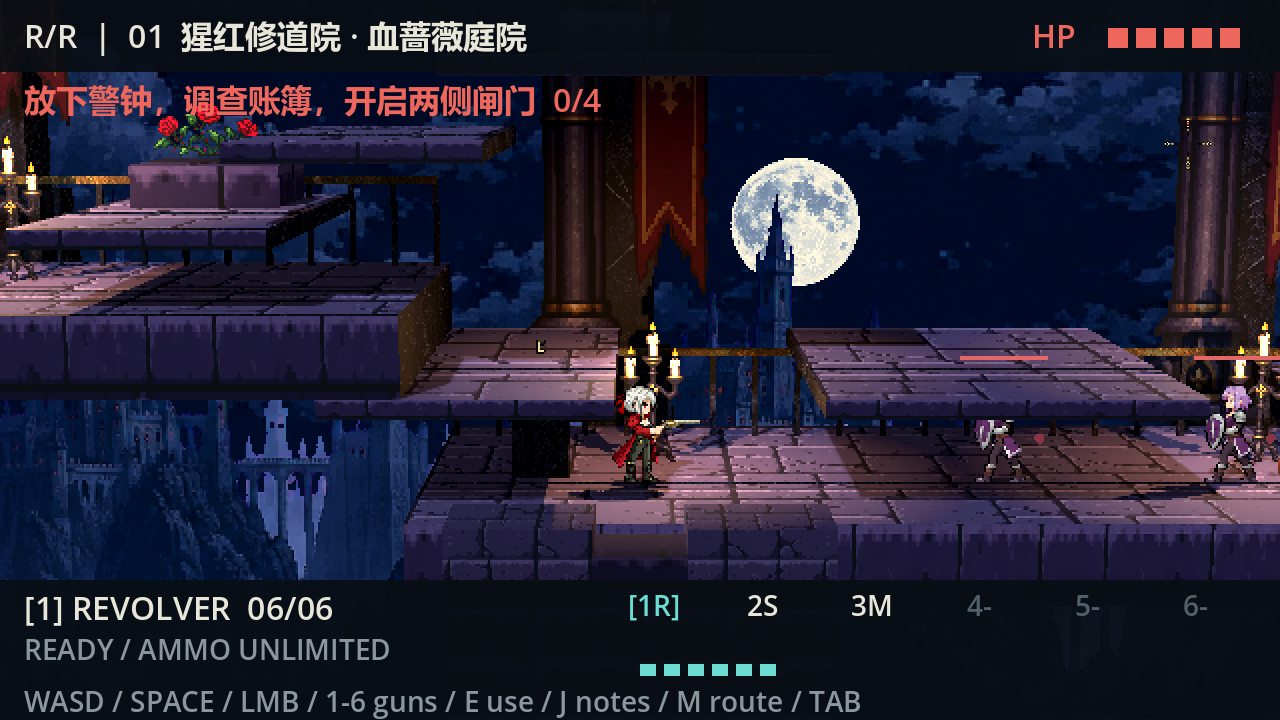
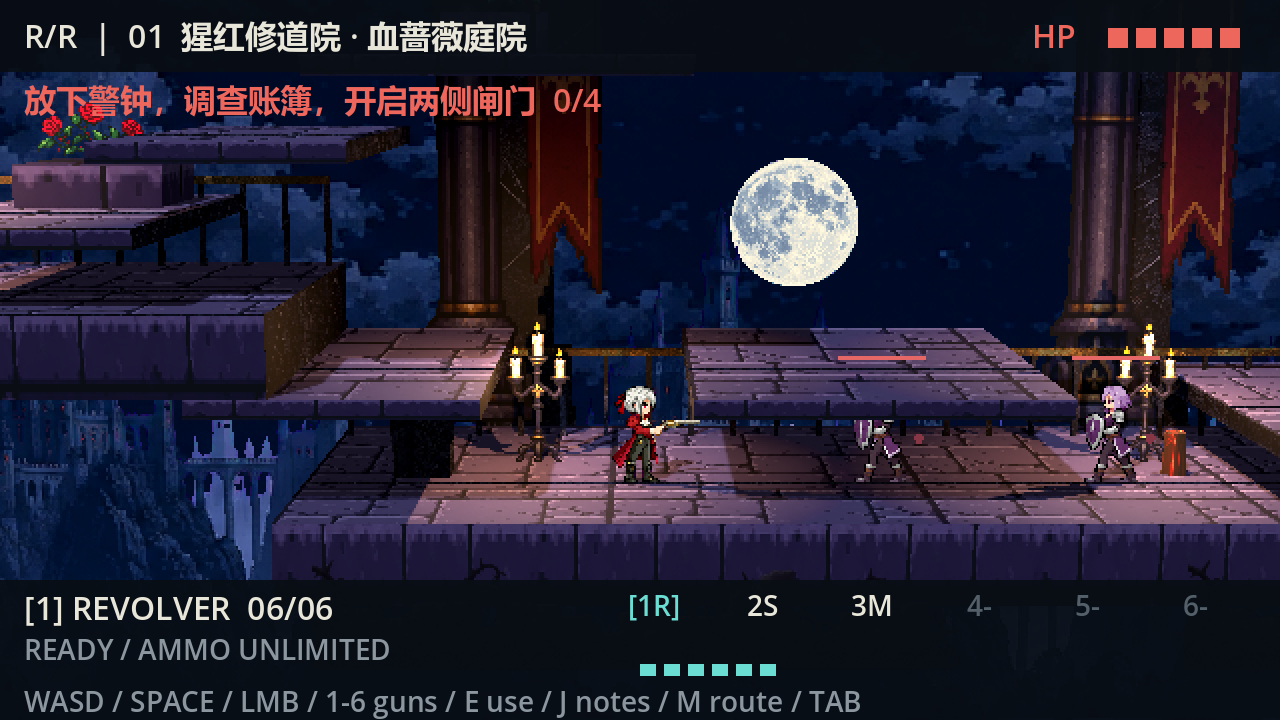
Replace near walls with generated larger 2D silhouettes

diff --git a/docs/FOREGROUND_DEPTH.md b/docs/FOREGROUND_DEPTH.md
@@ -1,29 +1,13 @@
-# 下方分段城墙与建筑层级
+# 二维近景剪影
 
-2026-09-11。用户否决两侧模糊柱旗，改为下方分段城墙。本文件覆盖此前的近景柔焦规范。
+2026-09-11 最新用户示意图要求：偏二维、细节弱化、略带糊化的近景。此前清晰三维石墙方案由本修订替代，旧两侧模糊柱旗同样不恢复。
 
-## 当前呈现
+使用新生成的 foreground_silhouette_v1.png：暗紫黑城墙、荆棘与一处短石饰，透明背景，柔化来自源图与仅作用于前景的线性采样。Sprite3D 不受三维光照、不投影、不 billboard、不使用全屏模糊或屏幕边缘渐隐。平台、角色与原生 UI 不受影响。
 
-五段场景各有两组近景石墙，共十组，宽 120–180 逻辑像素。墙体为真实 3D 几何，有立面、压顶、降低的缺口和两处短墙端柱。墙基向下延伸出取景区域，视作近处外墙的局部，不出现悬空底边。墙段位置保持世界坐标；近镜头、上层路线和跳跃时可以自然离开视野，不强行保持屏幕边框。
+near_foreground.tscn 保留十个分段，每段一个二维贴片。根据用户追加的“占比更大、清楚可见”要求，宽度从 120–180 增至 220–280 逻辑像素，最高轮廓抬高 6 像素；外廊第二段向右错开，保留段间开口。两处 end_pier 使用完整绘图，其他八处取右侧无尖饰的荆棘墙段；按不透明包围盒将最高轮廓对齐节点原点，宽高统一缩放，不拉长。直接使用源图区域，源文件不被改画。场景仍可在 Godot 中调整 position、width、end_pier。重置整体重建，无额外碰撞。
 
-移除旧版 14 张拉长柱旗及 foreground_soft 模糊材质；不做模糊、屏幕边缘渐隐或透明黑幕。普通不透明石材使用最近邻采样，接受环境光，颜色低于可玩平台。前景不投下会干扰战斗的阴影，也不增加碰撞。
+前景集中在扣除 HUD 后画面下方，近镜头与高处视角可自然退出画面，横移保持世界空间视差。保留全地图平台高度、六种枪械远近镜头距离、三档偏移及空中高度的投影/脚底间距测试。此前书架、柱子和玫瑰接合修复未修改。
 
-## 素材与编辑
+实际 RTX 3070 渲染检查输出 60 张截图，代表图为 screenshots/foreground_depth.png、screenshots/foreground_garden.png。这属于固定输入渲染检查，不等同于人工键鼠试玩。生成来源及提示词见 assets/environments/crimson/FOREGROUND_SOURCE.md。
 
-检查现有 atlas_v1.png 后，素石条 Rect2i(668,42,526,62) 足够用于墙面，石砖区域 Rect2i(48,34,548,526) 用于压顶。保留原 imagegen 来源，未生成新图。通过三向投影按世界尺度采样，不把整幅哥特拱门贴满墙面；缺口与厚度由几何表达。
-
-在 Godot 打开 scenes/rooms/near_foreground.tscn 可独立编辑十组墙的位置。每组导出 width 和 end_pier，工具脚本实时重建。节点原点为最高压顶面；两个端柱位置不再额外超过这个上限。场景实例归入主地图 scenery，重置时一起销毁重建，材质接入 F6 白模切换。
-
-景深中心 z=0.95，最靠后实体面 z=0.72，位于可玩平台前面 z=0.675 之外。普通墙顶 y=-3.38，低洼外廊与花园为 -3.90。后两组分别布置于低处实地前沿，并在墙间保留开口，不横跨整段屏幕。
-
-## 验证与限制
-
-高度按扣除 HUD 后的可见区域计算：640×360 世界画面中，HUD 上界约 y=36、下界 y=290。测试要求墙顶不超过这段可见区域的下方 20%。每隔 32 逻辑像素采样实际平台高度，包括下层路线与机关平台，覆盖 0/80/160 像素空中高度、三把枪的六个远近距离和三档镜头偏移。最高墙顶落在世界画面 y=0.707–0.725，即可见游戏区域下方约 11%–14%；所有采样中的角色脚底与墙顶至少相隔 4 渲染像素。近镜头下不保证低墙始终可见。
-
-tests/test_foreground.gd 为 23 项通过，覆盖投影高度、角色脚底、真实视差和短柱数量。完整 tools/run_checks.ps1 通过，环境 174 项、装饰接合 193 项通过；最终墙段横向调整后重跑前景测试通过。
-
-tests/capture_foreground.gd 为十组墙的六个镜头距离输出 60 张实际 GPU 截图；代表图见 screenshots/foreground_depth.png 与 screenshots/foreground_garden.png。tests/capture_foreground_motion.gd 配合 --fixed-fps 60 --write-movie artifacts/foreground_traversal.avi 生成三秒横移跳跃片段，并输出四张过程截图。这是固定输入呈现检查，不是人工键鼠试玩；既有平台遮挡表现不由本次前景改动修复。
-
-此前书架背板、层板、书本整体位于平台后面，最前层板为 z=-1.26，石托接合永久平台背面；柱子和玫瑰修复保持。当前周期账户剩余 60%，本次按约定验证、导出、记录并同步主分支后收尾。
-
-最终唯一输出 builds/windows/RecoilRequiem.exe 已重新导出，在 RTX 3070 上运行 120 帧，退出码 0，日志无错误。SHA256：BC7AC1E040B03EA8C9952A492FFD6748AC530BB52283C7449274720EE0365163。
+完整回归通过：环境 72 项、装饰接合 193 项、前景 23 项。扩大前景后重新运行投影与脚底间距检查通过，并重拍 60 张截图。唯一 EXE 已更新，运行 120 帧正常退出，日志无错误。SHA256：B34B89AAD7DCEDB2555E57083455433C239530E3284006B21E99462AF5499251。

diff --git a/assets/environments/crimson/FOREGROUND_SOURCE.md b/assets/environments/crimson/FOREGROUND_SOURCE.md
@@ -1,0 +1,7 @@
+# 二维城墙荆棘前景
+
+2026-09-11 内置 imagegen 生成，输出 exec-4766c794-85a6-4299-a257-daf3d58fd26a。原始 RGBA PNG 原样复制为 foreground_silhouette_v1.png。运行时区域裁切，未修改源图。用户示意图用于理解深色二维近景层次；未复制其中角色、场景或 UI。
+
+完整提示词：
+
+Create an authored transparent-background 2D foreground game asset for a Gothic vampire / Victorian steampunk pixel-art side-scroller. One wide low silhouette of a ruined castle parapet entwined with thorn branches, with a single short broken stone finial near its left end. Flat side view, NOT a 3D render, no visible isometric top planes. Almost black charcoal plum (#10101a) with extremely subtle dark violet interior masses; simplified soft painterly silhouette, detail deliberately out of focus, very gently softened contour, no sharp brick grid, no individually outlined bricks, no bright highlights. The visual idea is the dark out-of-focus foreground vegetation silhouettes along the bottom of a hand-painted metroidvania frame, translated into Gothic castle masonry and brambles. Broad readable shapes, quiet and atmospheric, compatible with a pixel-art world but this near silhouette may have soft edges. Asset width roughly three times height, bottom is solid and flat, silhouette across top irregular and low; highest finial only modestly taller. Entire object isolated with transparent margins, actual RGBA transparency, NO background, no ground plane, no fog rectangle, no text, no frame, no characters. This is a single reusable lower-screen foreground cutout, not a complete scene.

diff --git a/docs/ART_STANDARD.md b/docs/ART_STANDARD.md
@@ -1,6 +1,6 @@
 # 《反冲挽歌》美术标准 v2
 
-前景采用下方分段城墙、残缺压顶与少量连接墙体的短柱，保持真实三维厚度和世界位置。禁止前景虚化、左右渐隐遮罩及拉长柱旗铺满画面。最近邻采样，墙顶主要占扣除 HUD 后游戏区域的下方 8%–15%，不得超过下方 20%；近镜头和跳跃时允许自然退出画面，不得跟随镜头升降。书架等高立面装饰须连同层板、书本一起位于平台后侧，底座连接真实支撑。详见 [前景与书架层级](FOREGROUND_DEPTH.md)。
+前景最新修订：依照用户示意图采用 imagegen 绘制的深色二维城墙与荆棘剪影，轮廓略软、内部细节弱化。前景贴片允许线性采样；可玩平台、角色与 UI 保持原有清晰度。前景保留真实世界位置与视差，但不绘成立体砖块，不做全屏模糊或左右渐隐遮罩。分段集中于下方，不得覆盖角色与落点；近镜头和跳跃时允许自然退出画面。书架等高立面装饰须连同层板、书本一起位于平台后侧。详见 [前景与书架层级](FOREGROUND_DEPTH.md)。
 
 后侧建筑柱必须全部位于平台背面之外，包括柱脚与柱面贴图；不可让柱身穿过可走平台。后置柱脚使用与永久平台背面相接的石托承重，不得移到背景后悬空。景深从后到前为建筑柱、平台后沿栏杆、盆栽等台面物件、角色战斗平面；实际遮挡使用三维深度，不用强制置顶补救穿插。
 
